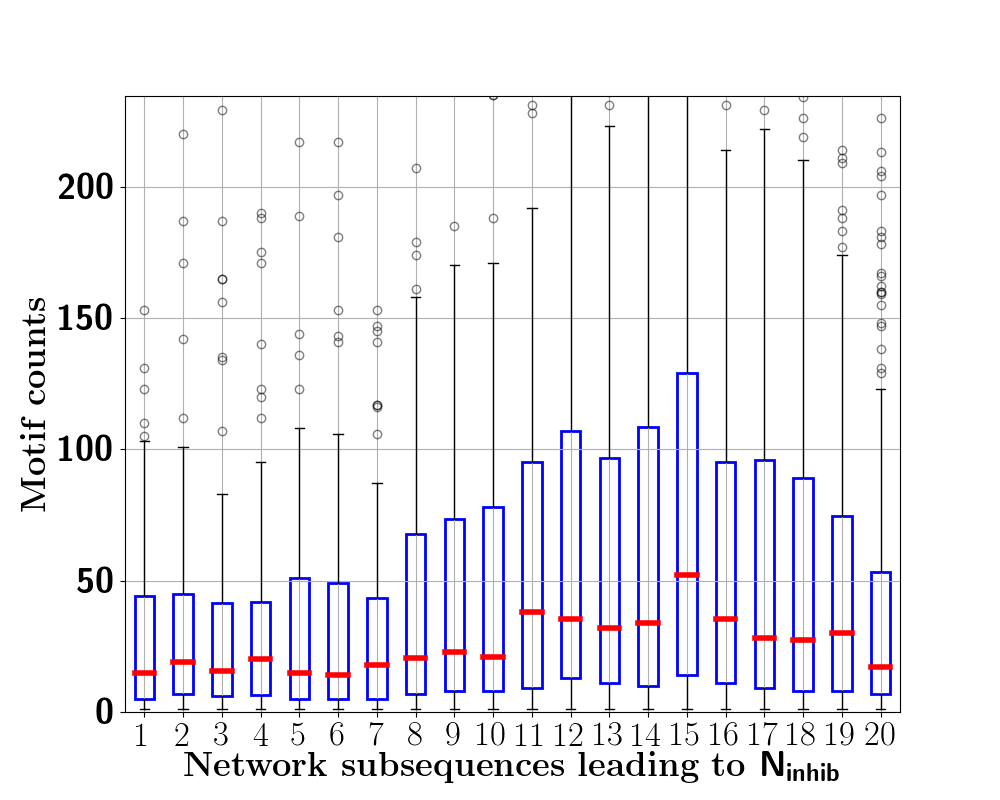
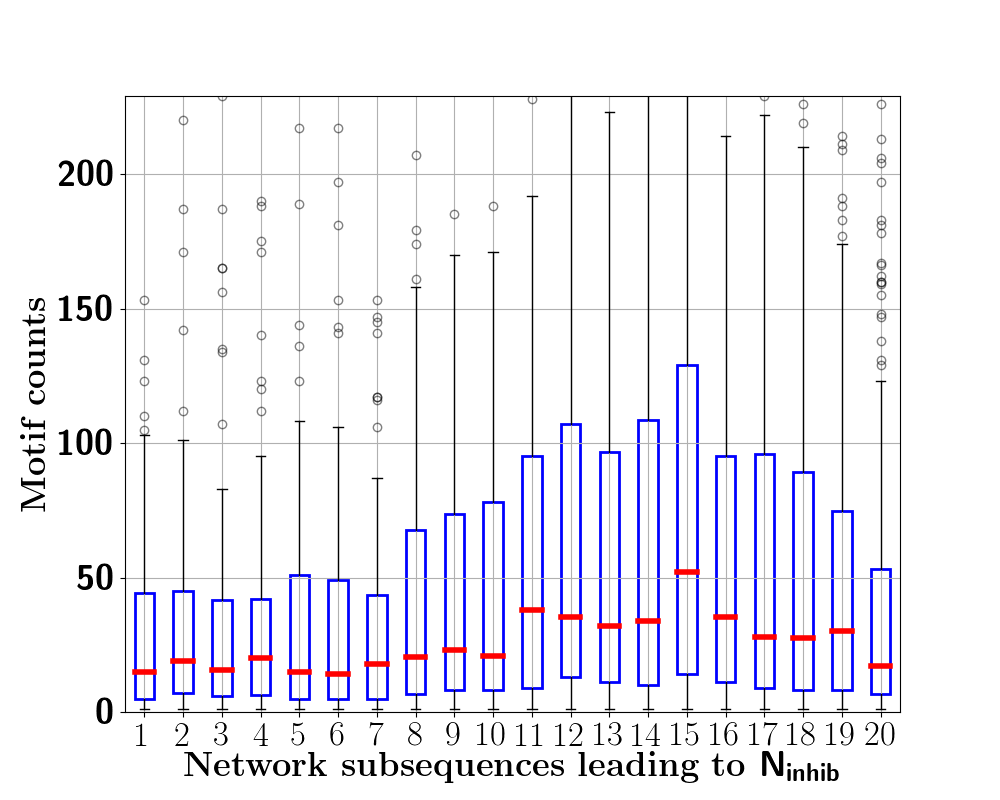
updatePlotd updated

diff --git a/utilities/plot_temporal_motifs.py b/utilities/plot_temporal_motifs.py
@@ -10,7 +10,7 @@ import pickle
 import numpy as np
 import matplotlib.image as image
 
-path = '../data/motifs/frontier_motifs_count/5/frontiers_lt/inhib'
+path = '../data/motifs/frontier_motifs_count/5/frontiers_gt/inhib'
 cnt_rec = 0
 
 cnt_1 = 0
@@ -118,10 +118,10 @@ for m in motif_count_interval:
     third_quartile = [item.get_ydata()[0] for item in bp['whiskers']]
     third_quartile = max(third_quartile)
 
-    dir_save = '../plots/temporal_motif_count_plots/12_08/frontiers_lt/v2/inhib'
+    dir_save = '../plots/temporal_motif_count_plots/12_08/frontiers_gt/v2/inhib'
     if not os.path.exists(dir_save):
         os.makedirs(dir_save)
-    file_save = dir_save + '/' + 'tmcl_inhib_' + str(m) + '.png'
+    file_save = dir_save + '/' + 'tmcg_inhib_' + str(m) + '.png'
     # try:
     #     plt.ylim([0, third_quartile + math.pow(10, int(math.log10(third_quartile)))])
     # except:
@@ -135,7 +135,7 @@ for m in motif_count_interval:
     plt.ylabel(r'\textbf{Motif counts}', fontsize=25)
     try:
         # limits_y_steep[m] = third_quartile + math.pow(10, int(math.log10(third_quartile)))
-        plt.ylim([0, max(limits_y_steep_lt[m], limits_y_inhib_lt[m])])
+        plt.ylim([0, min([1950, limits_y_inhib_gt[m]])])
     except:
         pass
     # plt.ylim([0, limits_y_steep[m]])
